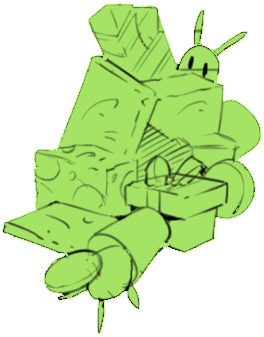
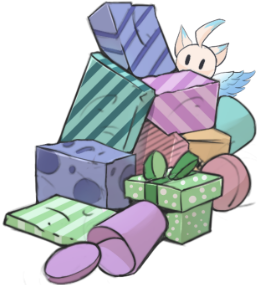
Added giftspile and roomie

diff --git a/src/game/scenes/index.js b/src/game/scenes/index.js
@@ -4,6 +4,7 @@ import PartyScene from './party';
 
 import ImgCake from '../assets/images/cake.png';
 import ImgGifts from '../assets/images/gifts.png';
+import ImgRoomie from '../assets/images/roomie.png';
 import ImgReimu from '../assets/images/reimu.png';
 import ImgNina from '../assets/images/nina.png';
 import ImgRoom from '../assets/images/room.png';
@@ -42,6 +43,7 @@ class IndexScene extends Phaser.Scene {
     this.load.image('balloons', ImgBalloons);
     this.load.image('cake', ImgCake);
     this.load.image('gifts', ImgGifts);
+    this.load.image('roomie', ImgRoomie);
     this.load.image('reimu', ImgReimu);
     this.load.image('nina', ImgNina);
     this.load.image('room', ImgRoom);

diff --git a/src/game/data/elements.js b/src/game/data/elements.js
@@ -23,10 +23,31 @@ module.exports = {
   carpet: {
     x: 0.5,
     y: 0.87,
-    z: 1.9,
-    str: 2,
+    z: 3,
+    str: 1.9,
     ox: 0.5,
     oy: 0.5,
+  },
+  gifts: {
+    x: 0.67,
+    y: 0.49,
+    z: 4,
+    str: 1.85,
+    ox: 0.5,
+    oy: 0.5,
+    text: 'Artworks',
+    project: 'twitterart',
+    font: 40,
+    dir: 'top',
+  },
+  roomie: {
+    x: 0.43,
+    y: 0.4,
+    z: 5,
+    str: 1.7,
+    ox: 0.5,
+    oy: 0.5,
+    dir: 'right',
   },
   couch: {
     x: 0.14,

diff --git a/src/game/scenes/party.js b/src/game/scenes/party.js
@@ -1,7 +1,7 @@
 import Phaser from 'phaser';
 import Elements from '../data/elements';
 
-const INTENSITY_X = 0.007;
+const INTENSITY_X = 0.008;
 const INTENSITY_Y = 0.004;
 
 class PartyScene extends Phaser.Scene {
